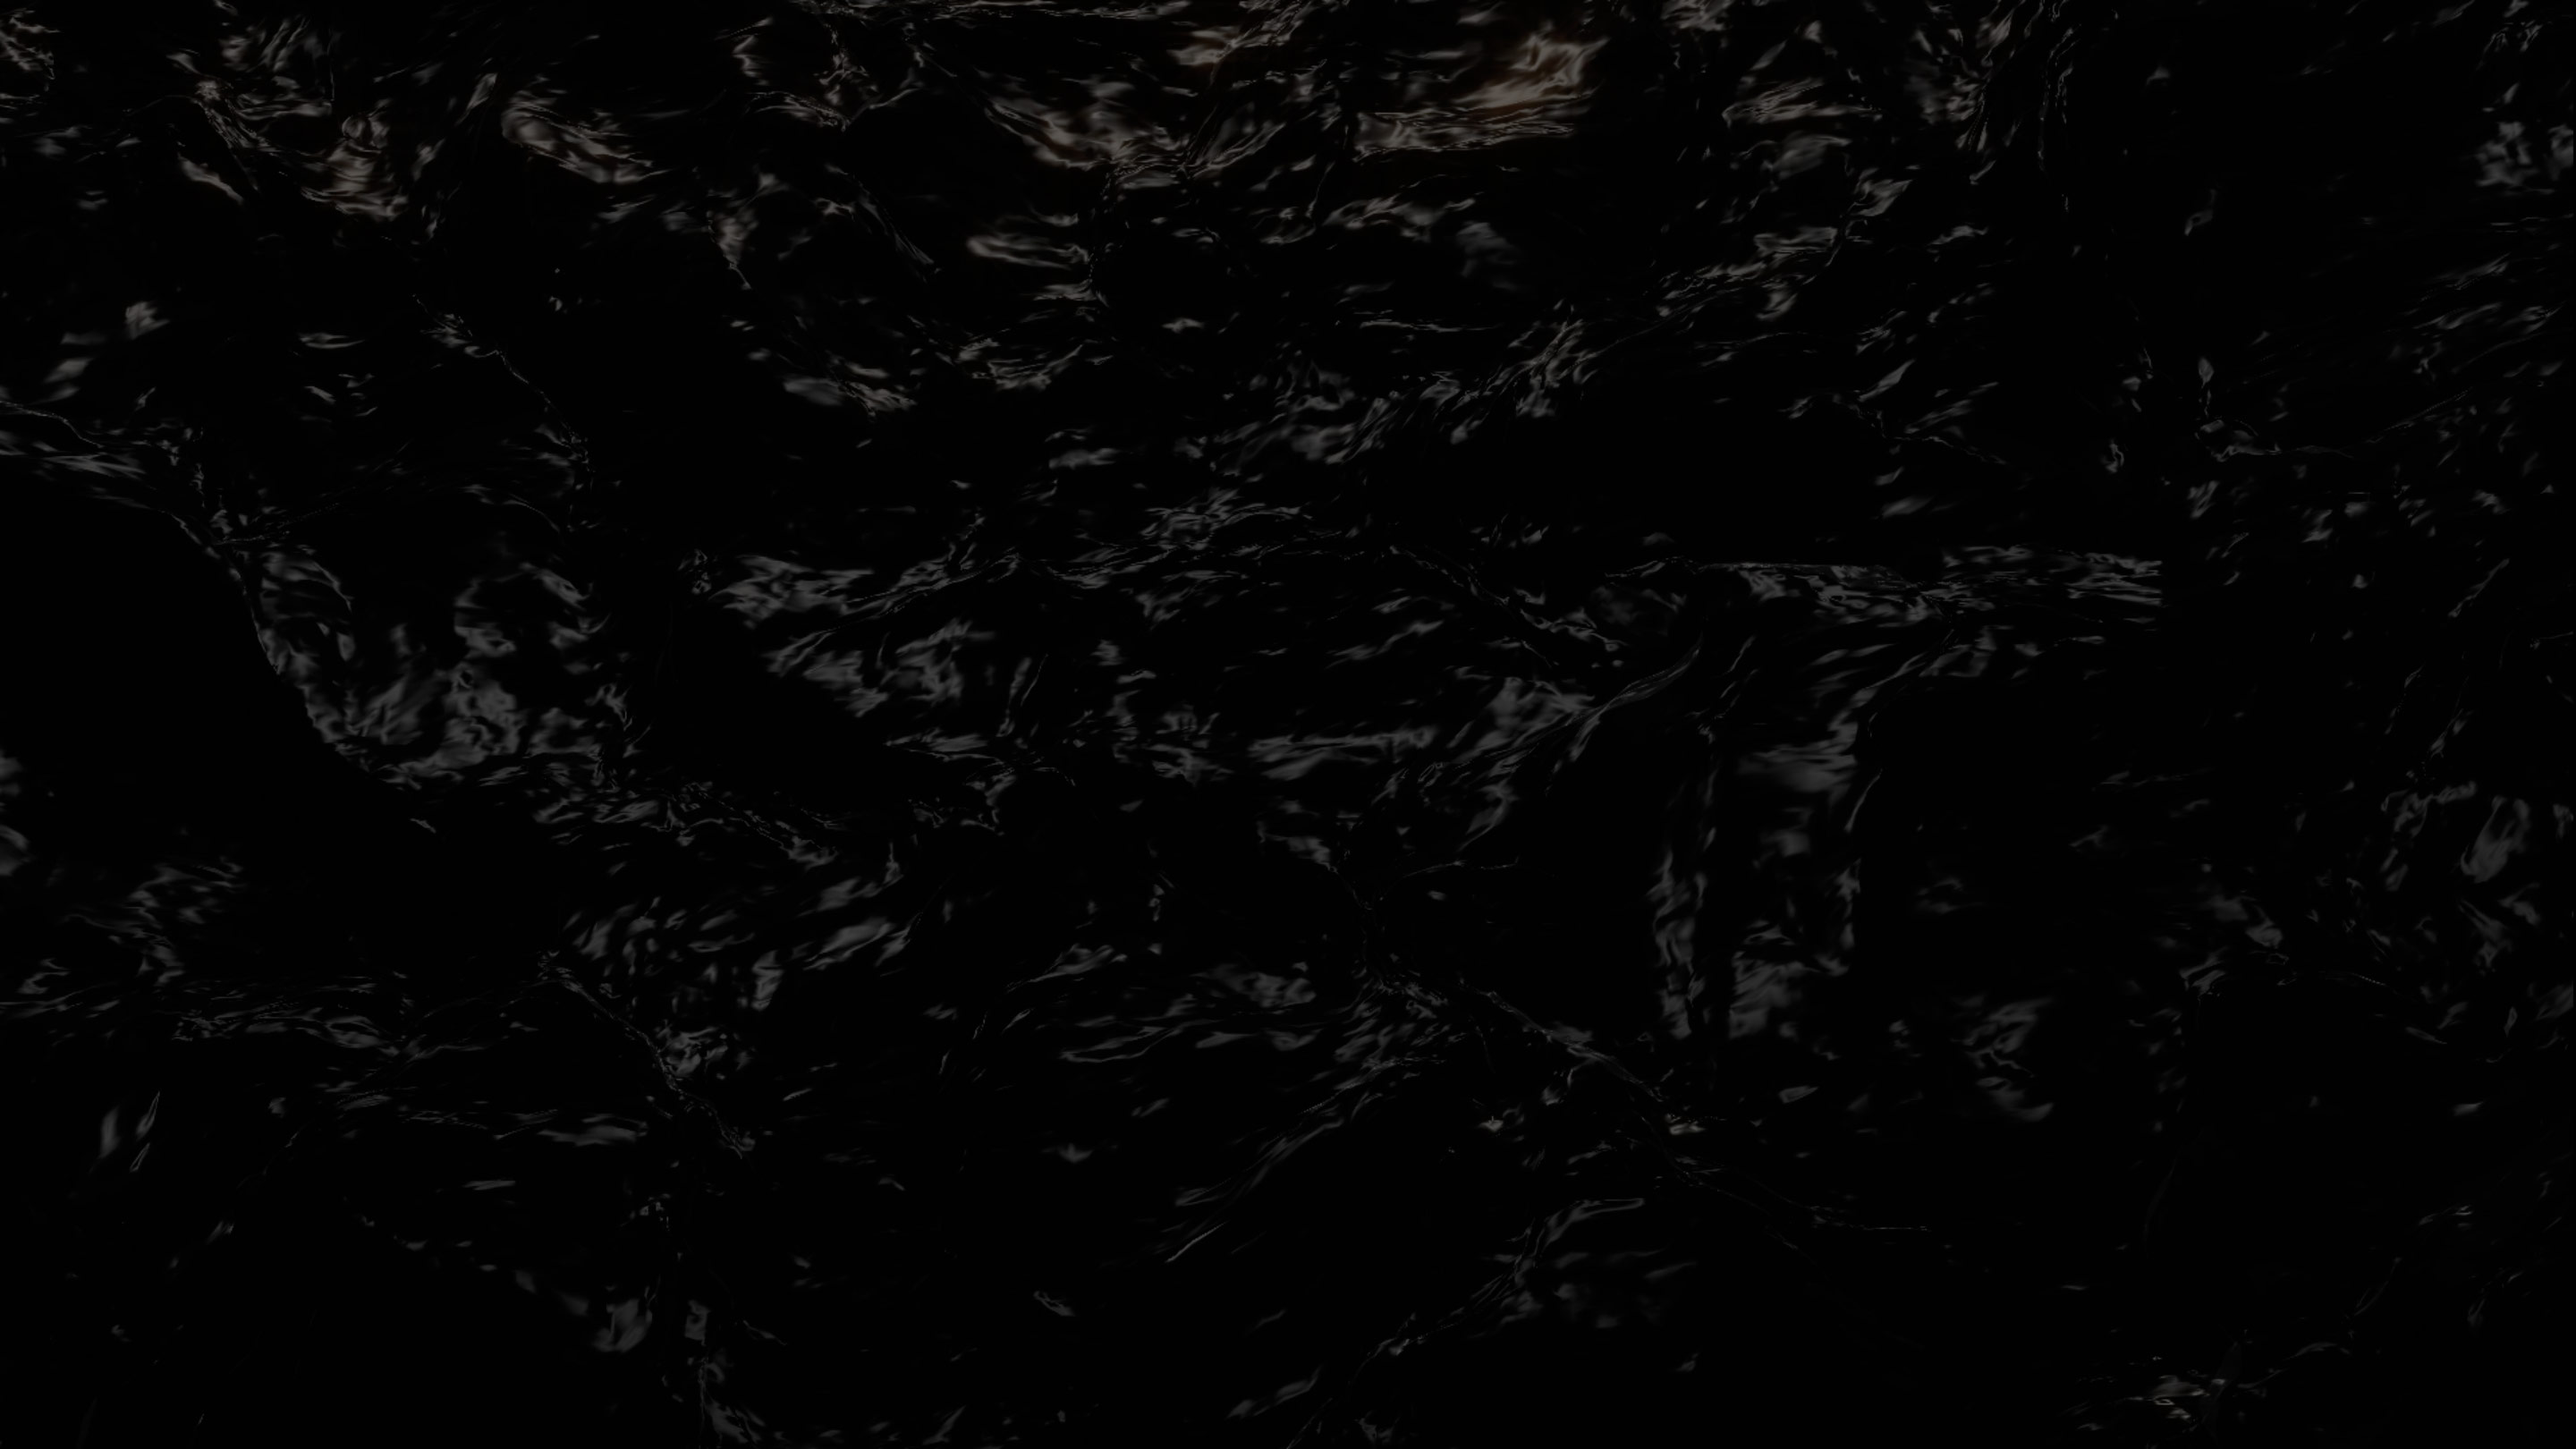
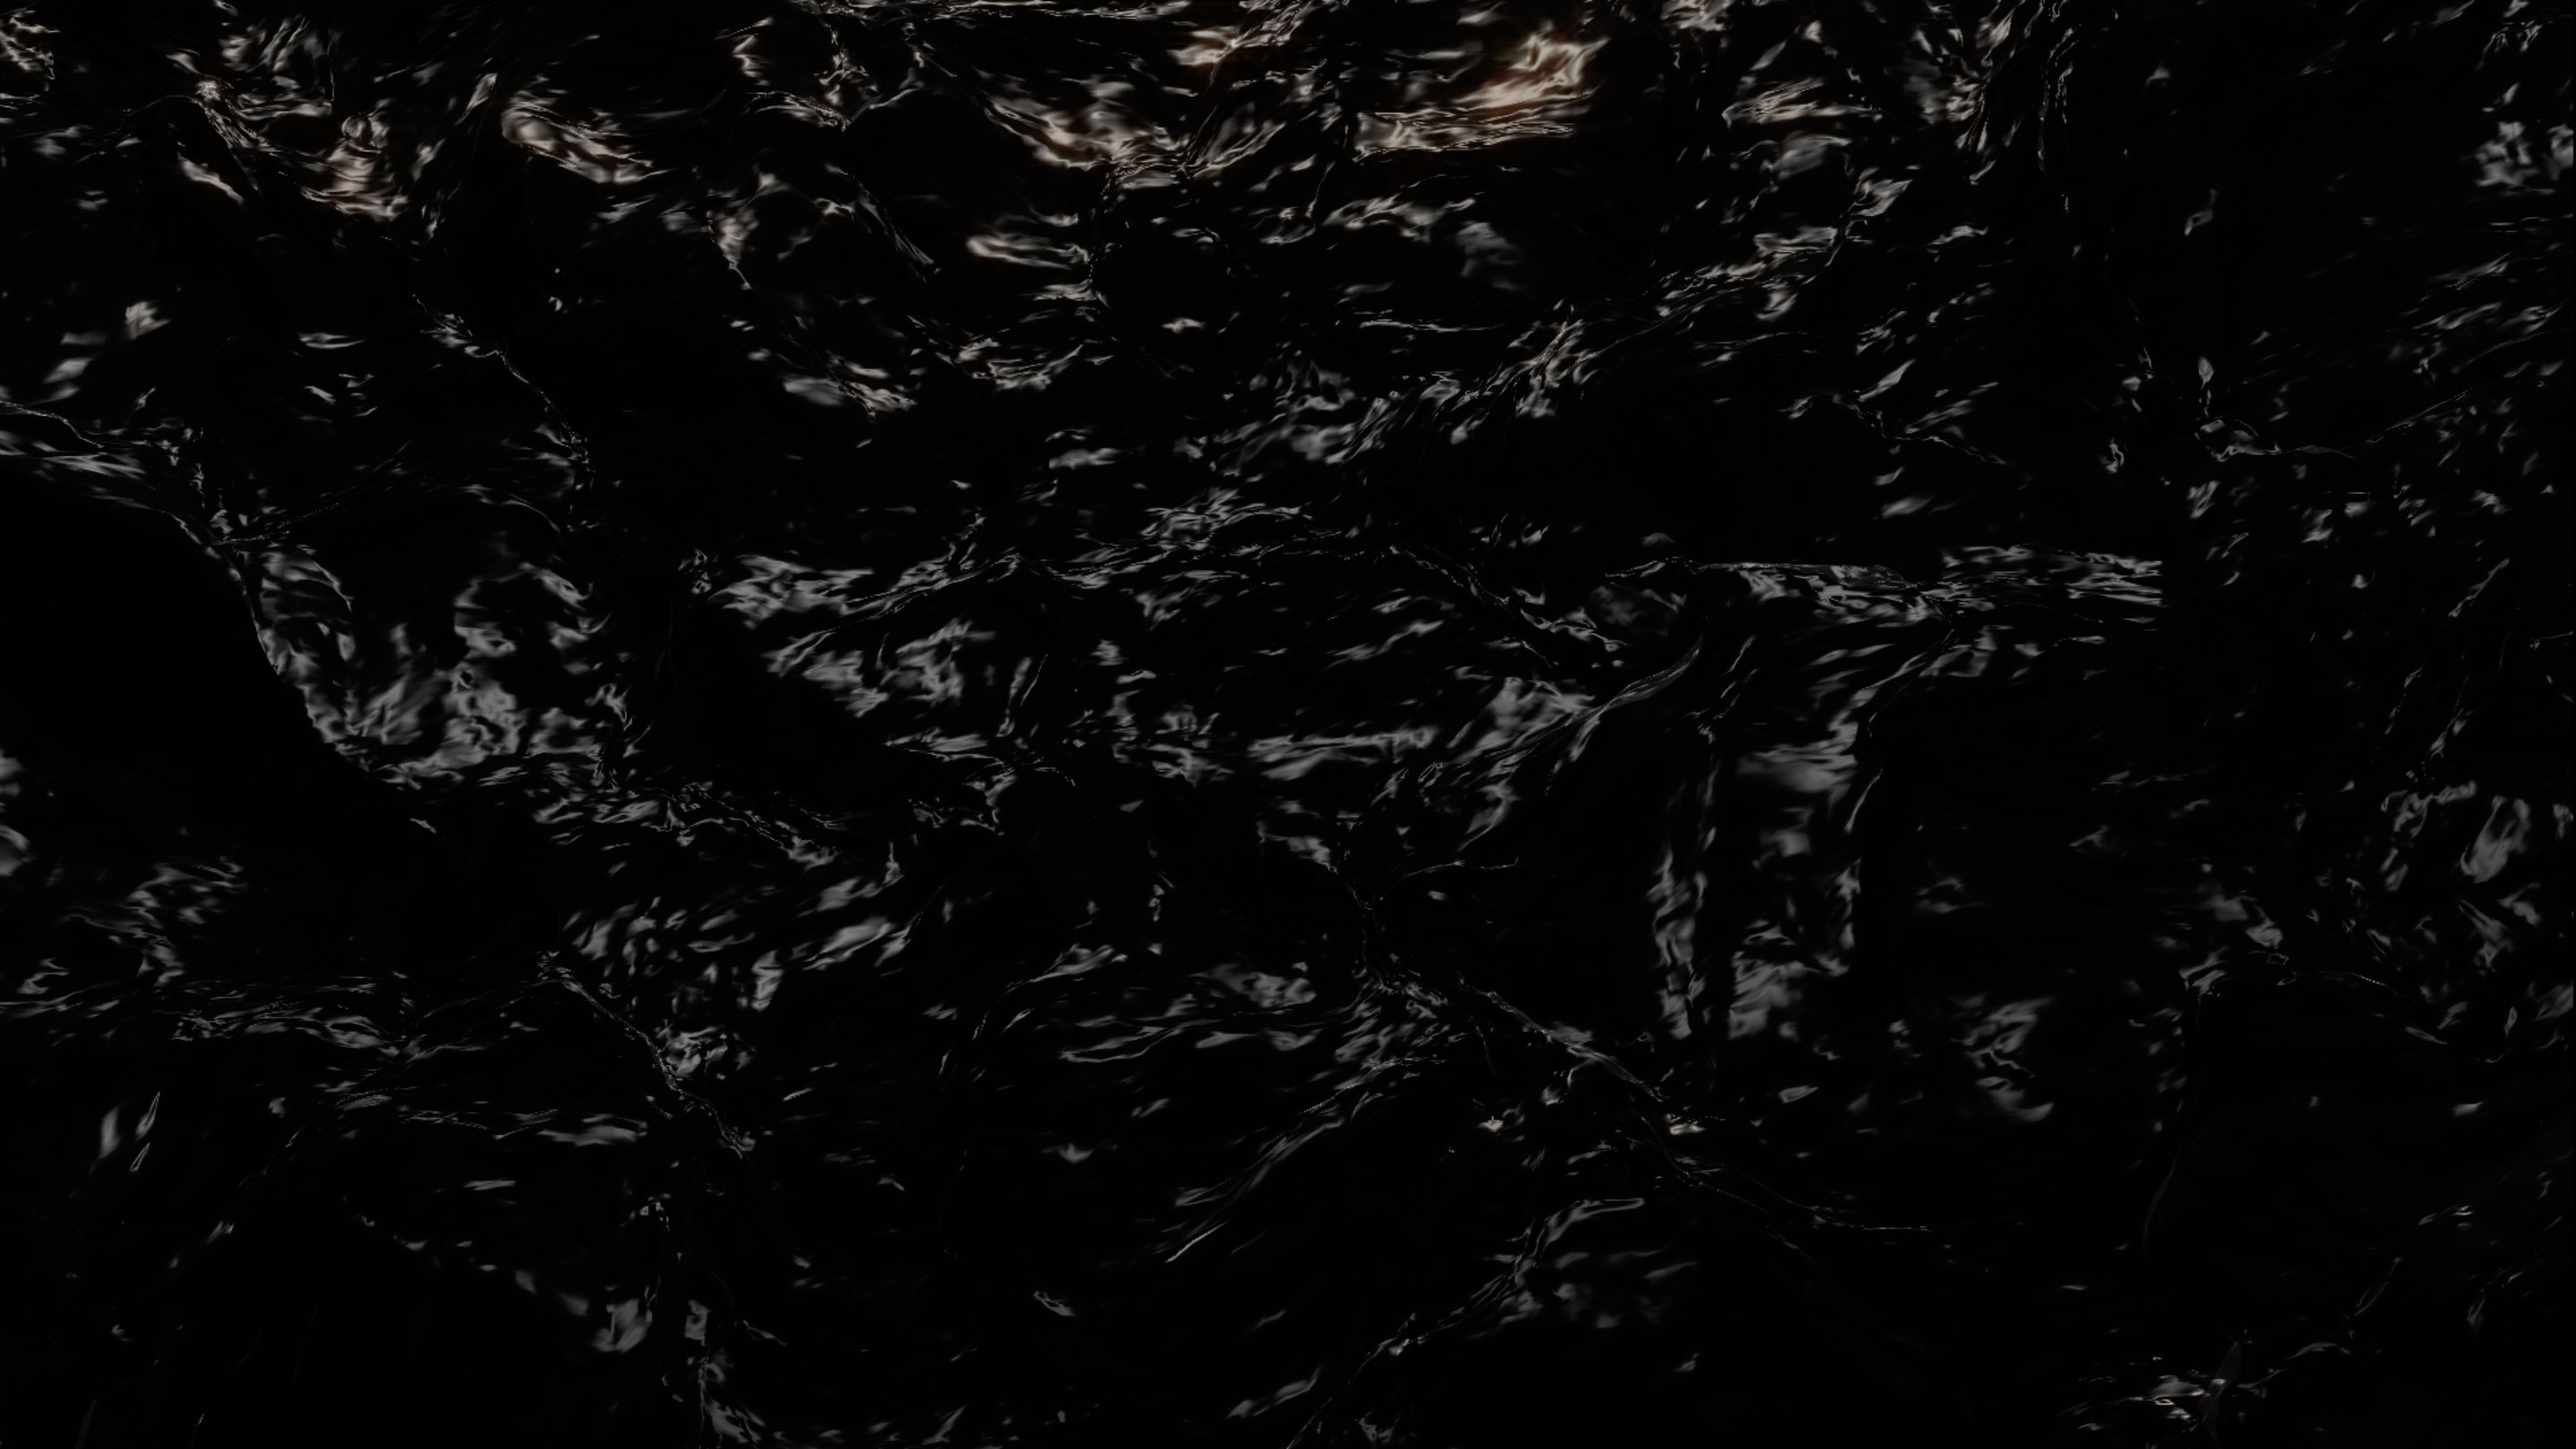
Fixed bug on full-screen video

diff --git a/public/css/main.css b/public/css/main.css
@@ -96,9 +96,9 @@ body {
   bottom: 0;
   left: 0;
   right: 0;
-  background: -moz-linear-gradient(top, transparent 0%, rgba(0, 0, 0, 0.8) 90%);
-  background: -webkit-linear-gradient(top, transparent 0%, rgba(0, 0, 0, 0.8) 90%);
-  background: linear-gradient(to bottom, transparent 0%, rgba(0, 0, 0, 0.8) 90%);
+  background: -moz-linear-gradient(top, transparent 0%, black 90%);
+  background: -webkit-linear-gradient(top, transparent 0%, black 90%);
+  background: linear-gradient(to bottom, transparent 0%, black 90%);
   filter: progid:DXImageTransform.Microsoft.gradient( startColorstr='#00000000', endColorstr='#000000',GradientType=0 );
   box-shadow: inset 0 0 0 8px white;
   z-index: 200; }
@@ -232,7 +232,8 @@ body {
             background-image: url(../media/video_bgr.jpg);
             background-repeat: no-repeat;
             background-size: cover;
-            background-position: center top; }
+            background-position: center top;
+            opacity: .6; }
           .video-container .video-width .video-aspect .video-height .video-hide .video-fade {
             opacity: 1; }
           .video-container .video-width .video-aspect .video-height .video-hide iframe {
@@ -243,7 +244,7 @@ body {
             height: 100%;
             width: 100%;
             opacity: 0;
-            transition: opacity .5s ease-in-out 1s; }
+            transition: opacity .6s ease-in-out 1s; }
   .video-container video {
     background-size: cover;
     background-position: center top;

diff --git a/scss/_hero.scss b/scss/_hero.scss
@@ -31,9 +31,9 @@ body {
 	bottom: 0;
 	left: 0;
 	right: 0;
-	background: -moz-linear-gradient(top, rgba(0,0,0,0) 0%, rgba(0,0,0,.8) 90%);
-	background: -webkit-linear-gradient(top, rgba(0,0,0,0) 0%,rgba(0,0,0,.8) 90%);
-	background: linear-gradient(to bottom, rgba(0,0,0,0) 0%,rgba(0,0,0,.8) 90%);
+	background: -moz-linear-gradient(top, rgba(0,0,0,0) 0%, rgba(0,0,0,1) 90%);
+	background: -webkit-linear-gradient(top, rgba(0,0,0,0) 0%,rgba(0,0,0,1) 90%);
+	background: linear-gradient(to bottom, rgba(0,0,0,0) 0%,rgba(0,0,0,1) 90%);
 	filter: progid:DXImageTransform.Microsoft.gradient( startColorstr='#00000000', endColorstr='#000000',GradientType=0 );
 	box-shadow: inset 0 0 0 8px $white;
 	z-index: 200;
@@ -192,6 +192,7 @@ body {
 						background-repeat: no-repeat;
 						background-size: cover;
 						background-position: center top;
+						opacity: .6;
 					}
 
 					.video-fade {
@@ -206,7 +207,7 @@ body {
 						height:100%;
 						width:100%;
 						opacity: 0;
-						transition: opacity .5s ease-in-out 1s;
+						transition: opacity .6s ease-in-out 1s;
 					}
 				}
 			}

diff --git a/public/index.html b/public/index.html
@@ -26,12 +26,13 @@
 				<div class="video-height">
 					<div class="video-hide">
 						<div class="video-poster"></div>
-						<iframe id="videoBgr" src="https://player.vimeo.com/video/221637259?autoplay=1&loop=1&title=0&byline=0&portrait=0&background=1" width="640" height="360" frameborder="0" webkitallowfullscreen mozallowfullscreen allowfullscreen></iframe>
+						<iframe id="videoBgr" src="https://player.vimeo.com/video/221881147?autoplay=1&loop=1&title=0&byline=0&portrait=0" width="640" height="360" frameborder="0" webkitallowfullscreen mozallowfullscreen allowfullscreen></iframe>
 					</div>
 				</div>
 			</div>
 		</div>
 	</div>
 
+	<script src="https://ajax.googleapis.com/ajax/libs/jquery/3.2.1/jquery.min.js"></script>
 	<script src="js/main.js"></script>
 </body>

diff --git a/public/js/main.js b/public/js/main.js
@@ -5,6 +5,7 @@ setTimeout(function(){
    elem.className = elem.className + "video-fade";
 },5000);
 
+
 var timeoutId;
 var $videoBgAspect = $(".video-aspect");
 var $videoBgWidth = $(".video-width");
